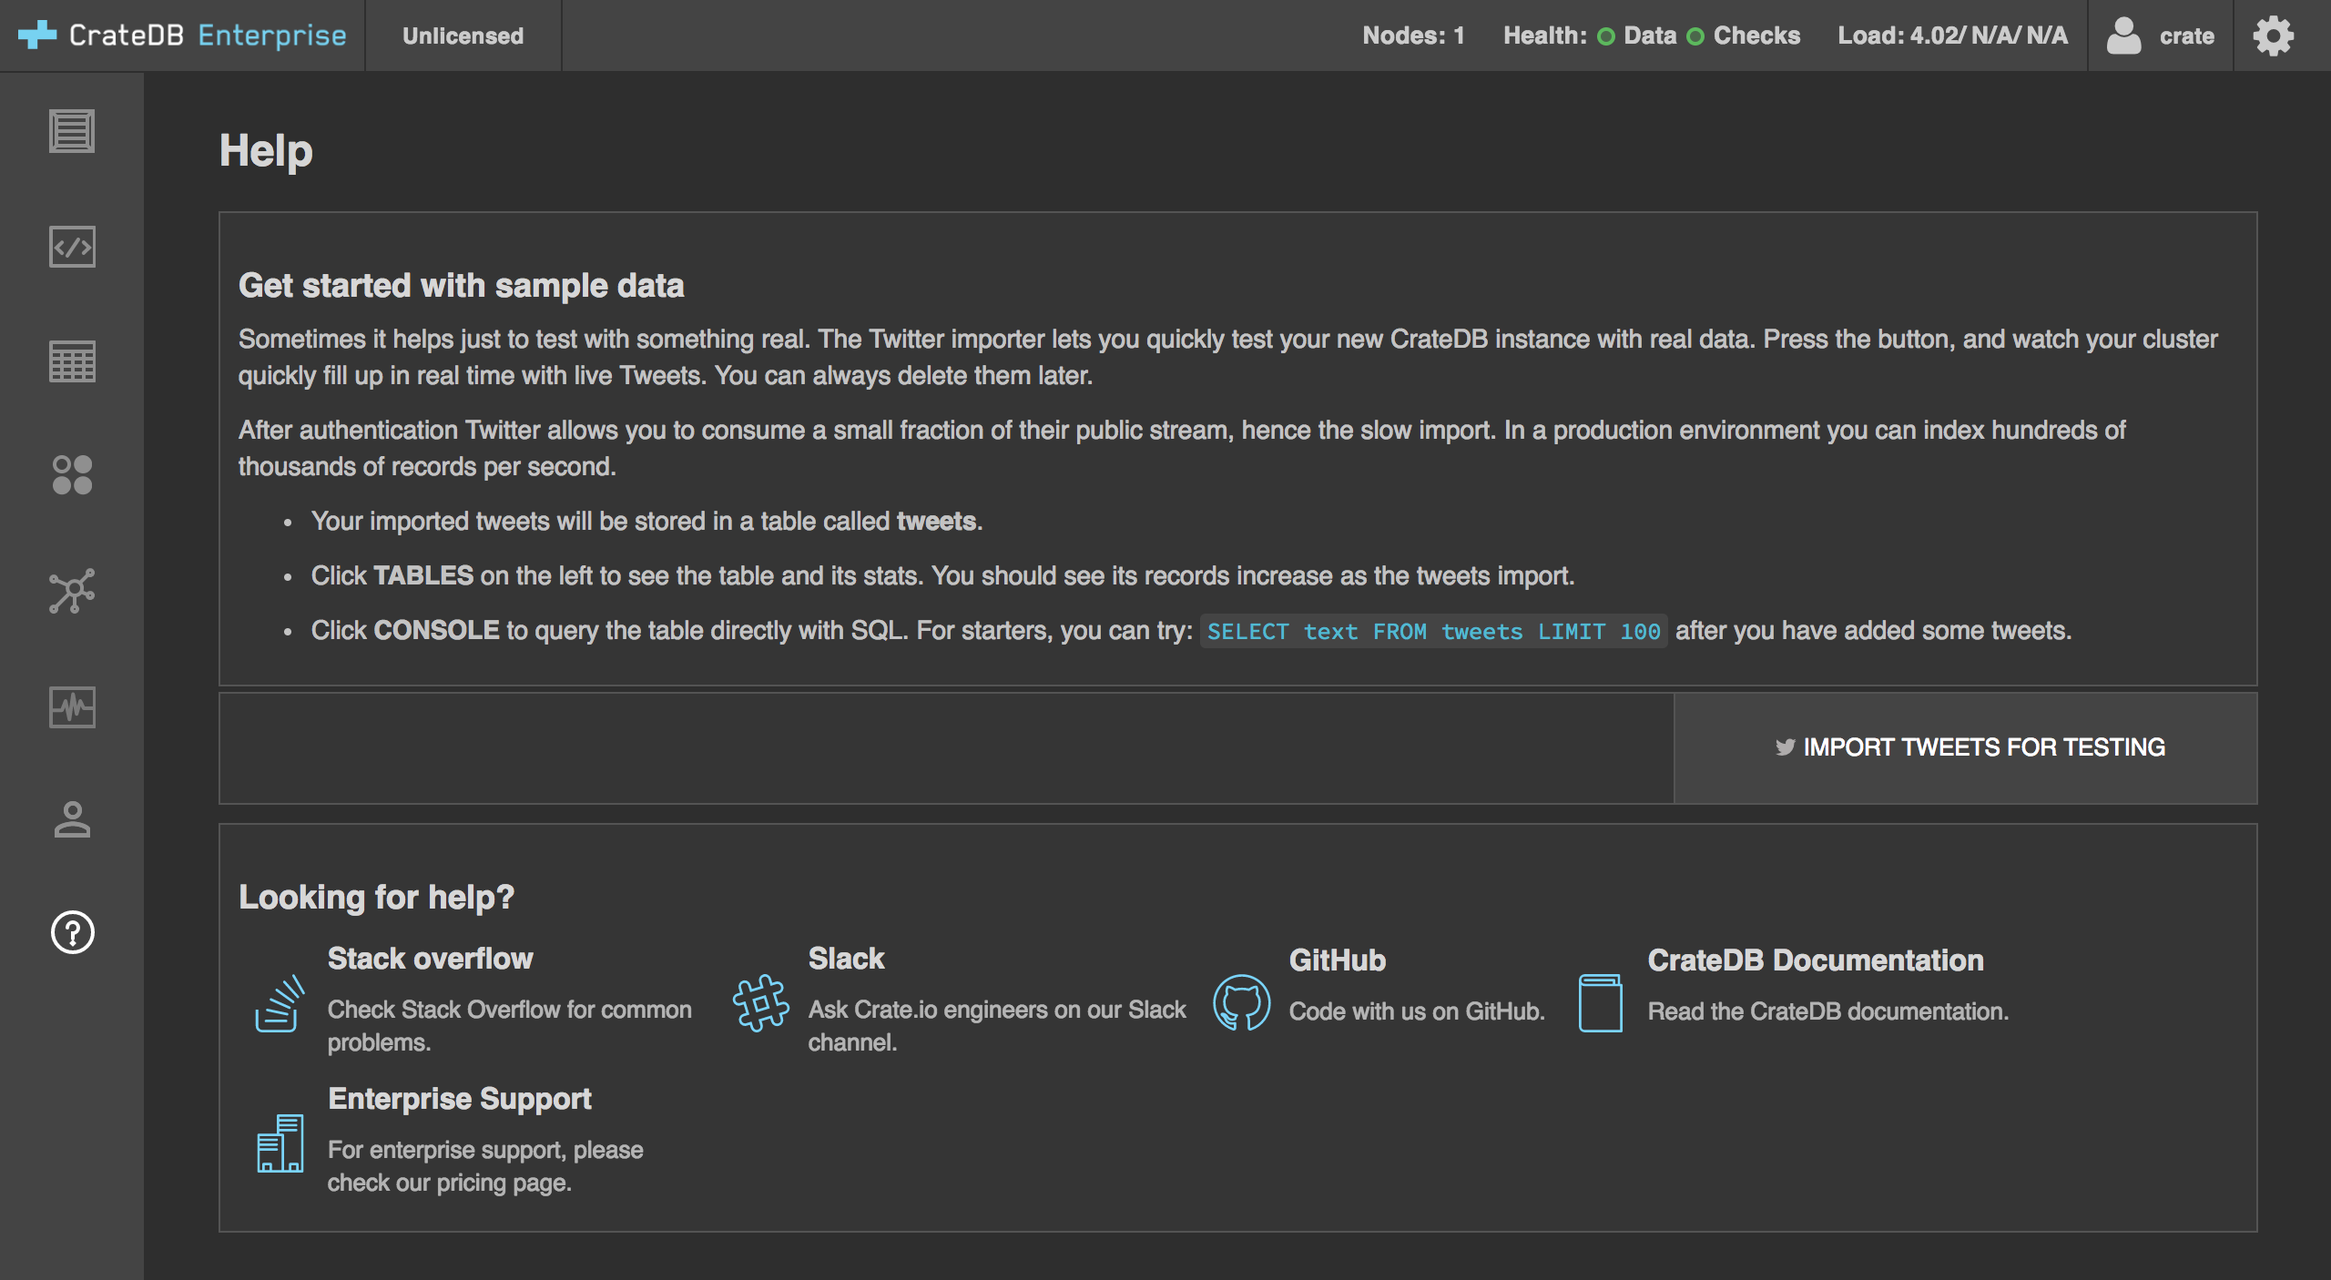
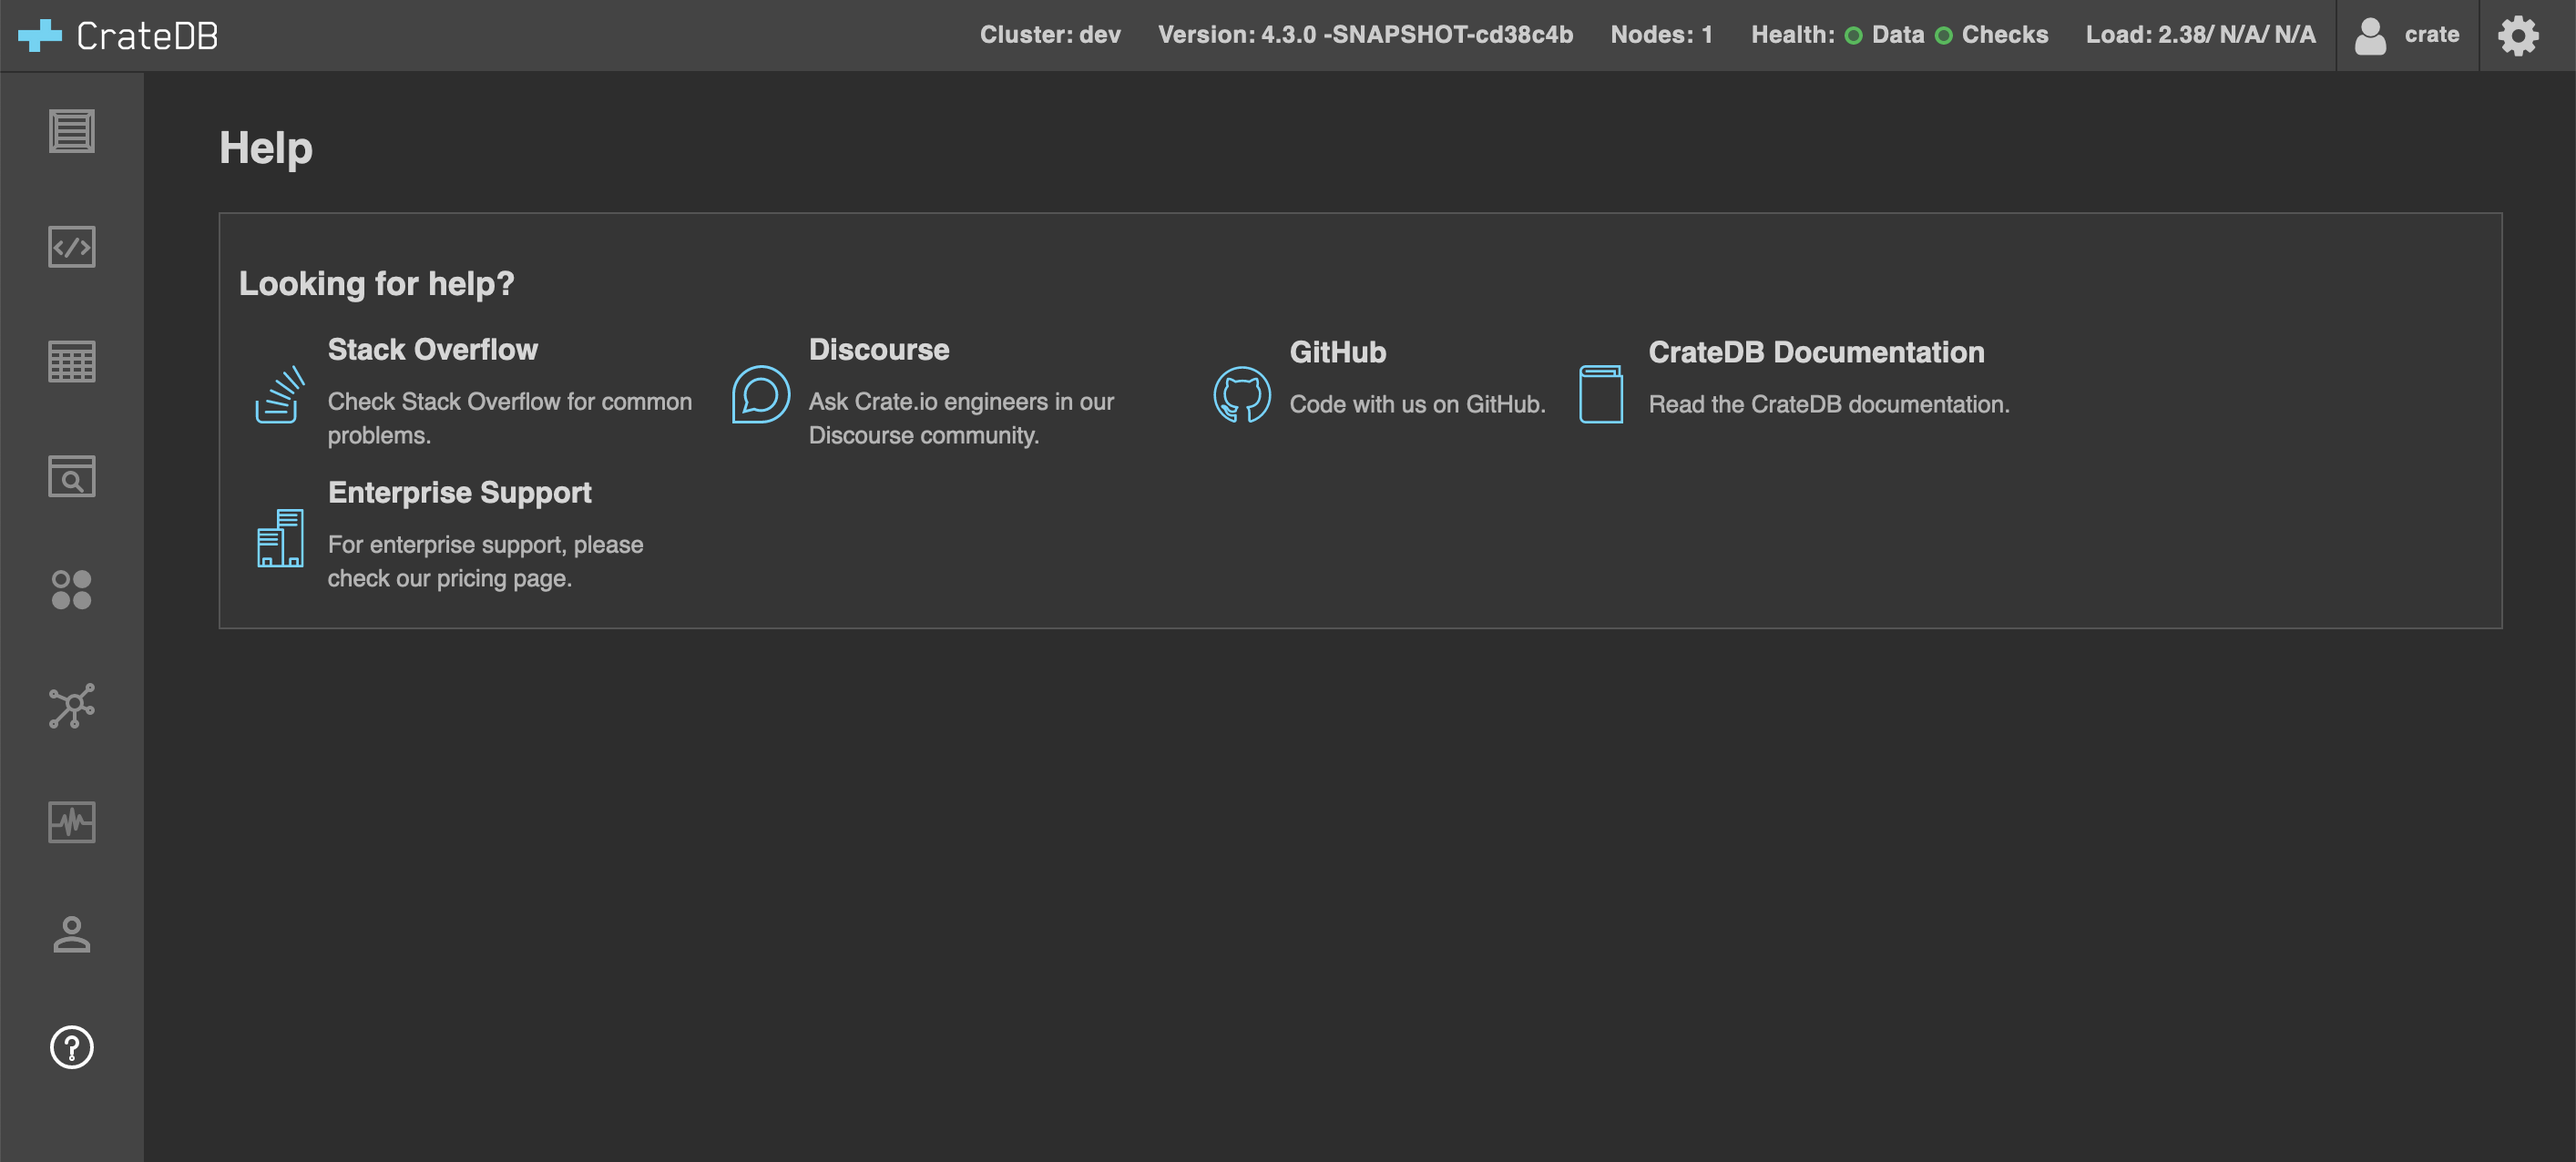
Remove tweet tutorial demo.
It is currently broken and also does not reflect the most common
use cases with CrateDB.
We may come up with a better demonstration in future.

diff --git a/app/plugins/tutorial/tutorial.js b/app/plugins/tutorial/tutorial.js
@@ -1,206 +1,18 @@
 'use strict';
 
-angular.module('tutorial', ['sql', 'translation'])
-  .controller('TutorialController', function($scope, $window, SQLQuery, $sce, $translate, $translatePartialLoader, $rootScope, Translation) {
-
-    var base_url = 'https://twitter.crate.io/api/v1';
-    var loc = $window.location;
-    var redirect = loc.protocol + '//' + loc.host + loc.pathname + loc.search;
-
-    $scope.count = 0;
-    $scope.importing = false;
-
-    $scope.error = {};
-
-    var Twitter = function() {
-
-      var createStmt = 'create table if not exists tweets ( ' +
-        '  id text primary key, ' +
-        '  created_at timestamp with time zone, ' +
-        '  text text INDEX using fulltext, ' +
-        '  source text INDEX using fulltext, ' +
-        '  retweeted boolean, ' +
-        '  account_user object(strict) as ( ' +
-        '    created_at timestamp with time zone, ' +
-        '    verified boolean, ' +
-        '    followers_count integer, ' +
-        '    id text, ' +
-        '    statuses_count integer, ' +
-        '    description text INDEX using fulltext, ' +
-        '    friends_count integer, ' +
-        '    location text INDEX using fulltext ' +
-        '  ) ' +
-        ') with (number_of_replicas = \'0-all\')';
-      var insertStmt = 'insert into tweets ' +
-        '(created_at, id, retweeted, source, text, account_user) ' +
-        'values ($1, $2, $3, $4, $5, $6)';
-
-      this.storeTweet = function(tweet) {
-        if (!tweet || !tweet.id) {
-          return;
-        }
-        SQLQuery.execute(insertStmt, [
-          tweet.created_at,
-          tweet.id,
-          tweet.retweeted,
-          tweet.source,
-          tweet.text,
-          tweet.user],
-          false,
-          false,
-          false,
-          false);
-      };
-
-      this.createTable = function() {
-        return SQLQuery.execute(createStmt, {}, false, false, true, false);
-      };
-
-      this.start = function() {
-        if (this.request) {
-          return; // already running!
-        }
-        this.count = 0;
-        var self = this,
-          currentResponseText='',
-          tweets;
-        var ctd = this.createTable();
-
-        var fetch = function() {
-          $scope.importing = true;
-
-          // This is a long polling request.
-          // We do not expect this to ever complete, except on timeout and just parse the
-          // continously updating response for new tweets to insert.
-          self.request = $.ajax(base_url + '/sample?origin=' + encodeURIComponent(redirect), {
-            type: 'GET',
-            xhrFields: {
-              withCredentials: true
-            },
-            crossDomain: true,
-            xhr: function() {
-              var xhr = new window.XMLHttpRequest();
-              xhr.addEventListener('progress', function(evt) {
-                tweets = evt.target.responseText.substring(currentResponseText.length);
-                tweets = tweets.split('\n');
-                tweets = $.map(tweets, function (tweet) {
-                  try {
-                    return JSON.parse(tweet);
-                  } catch (e) { return null; }
-                });
-                tweets = tweets.filter(function(tweet) {
-                  return tweet !== null;
-                });
-                $.each(tweets, function (idx, tweet) {
-                  self.storeTweet(tweet);
-                });
-                self.count += tweets.length;
-                $scope.count = self.count;
-                currentResponseText = evt.target.responseText;
-              });
-              return xhr;
-            }
-          })
-            .fail(function (err) {
-              // If this is an authorization failure, redirect to get
-              // permission
-              if (err.status === 401) {
-                window.location = base_url + '/auth?origin=' + encodeURIComponent(redirect);
-              }
-            });
-        };
-
-        ctd.then(fetch,
-          function(response){
-          $scope.error = response.error;
-        });
-      };
-
-      this.running = function() {
-        return (this.request && this.request.state() === 'pending');
-      };
-
-      this.stop = function() {
-        if (this.request) {
-          this.request.abort();
-        }
-        this.request = null;
-        $scope.importing = false;
-      };
-    };
-
-    var twitter = new Twitter();
-    // The authentication callback sets the start_twitter parameter after
-    // a successfull login so the user doesn't have to click the button again
-    if (localStorage.getItem('crate.start_twitter') === 'true') {
-      localStorage.removeItem('crate.start_twitter');
-      twitter.start();
-    }
-
-    $scope.startImport = function(){
-      twitter.start();
-    };
-
-    $scope.stopImport = function(){
-      twitter.stop();
-    };
+angular.module('tutorial', ['translation'])
+  .controller('TutorialController', function($translate, $translatePartialLoader) {
 
     $translatePartialLoader.addPart('./static/plugins/tutorial');
     $translate.refresh();
-
-
-    // Update text if Language is Changed
-    $rootScope.$on('$translateChangeSuccess', function() {
-      $translate(['TUTORIAL.INSTRUCTION_1', 'TUTORIAL.TWEETS']).then(function(translations) {
-        $scope.InstructionText1 = Translation.interpolate(translations['TUTORIAL.INSTRUCTION_1'], {
-          tweets: '<b>' + translations['TUTORIAL.TWEETS'] + '</b>'
-        });
-        if (typeof $scope.InstructionText1 === 'string'){
-          $scope.InstructionText1 = $sce.trustAsHtml($scope.InstructionText1);
-        }
-      });
-
-      $translate(['TUTORIAL.INSTRUCTION_2', 'TUTORIAL.TABLES']).then(function(translations) {
-        $scope.InstructionText2 = Translation.interpolate(translations['TUTORIAL.INSTRUCTION_2'],{
-          tables: '<b>' + translations['TUTORIAL.TABLES'] + '</b>'
-        });
-        if (typeof $scope.InstructionText2 === 'string'){
-          $scope.InstructionText2 = $sce.trustAsHtml($scope.InstructionText2);
-        }
-      });
-
-      $translate(['TUTORIAL.INSTRUCTION_3', 'TUTORIAL.CONSOLE', 'TUTORIAL.QUERY']).then(function(translations) {
-        $scope.InstructionText3 = Translation.interpolate(translations['TUTORIAL.INSTRUCTION_3'],{
-          console: '<b>' + translations['TUTORIAL.CONSOLE'] + '</b>',
-          query: '<code>SELECT text FROM tweets LIMIT 100</code>'
-        });
-        if (typeof $scope.InstructionText3 === 'string'){
-          $scope.InstructionText3 = $sce.trustAsHtml($scope.InstructionText3);
-        }
-      });
-    });
-
-    $scope.$on('$destroy', function() {
-      twitter.stop();
-    });
 
   })
   .run(function($window, NavigationService, $translatePartialLoader, $filter, $rootScope, $translate) {
-
     $translatePartialLoader.addPart('./static/plugins/tutorial');
-    $translate.refresh();
     var iconSrc = 'static/plugins/tutorial/static/icons/icon-getstarted.svg';
     var url = '/help';
     var position = 100;
-    var re = /[\?|&]start_twitter=true/;
-
     NavigationService.addNavBarElement(iconSrc, $filter('translate', 'NAVIGATION.HELP'), url, position, "tutorial");
-
-    if ($window.location.hash.match(re) !== null) {
-      var path = $window.location.pathname;
-      localStorage.setItem('crate.start_twitter', 'true');
-      $window.location.href = path + $window.location.search.replace(re, '') + '#!' + url;
-    }
 
     // Update Navbar Elements if Language Changes
     $rootScope.$on('$translateChangeSuccess', function() {

diff --git a/app/plugins/tutorial/tutorial.html b/app/plugins/tutorial/tutorial.html
@@ -5,34 +5,6 @@
 
   <div class="help__wrapper">
     <div class="tutorial__wrapper">
-      <div class="cr-panel-block--tutorial">
-        <h2> {{::'TUTORIAL.TITLE' | translate }}</h2>
-
-        <p>{{:: 'TUTORIAL.PARAGRAPH_1' |translate }}</p>
-        <p>{{:: 'TUTORIAL.PARAGRAPH_2' |translate }}</p>
-
-        <ul>
-          <li ng-bind-html="InstructionText1"></li>
-          <li ng-bind-html="InstructionText2"></li>
-          <li ng-bind-html="InstructionText3"></li>
-        </ul>
-      </div>
-
-      <div class="import-tweets__submit__panel">
-        <div class="import-tweets__button">
-          <button ng-hide="importing" ng-click="startImport()" type="submit" class="cr-import-tweets__button cr-button cr-button--primary" data-style="expand-left" data-spinner-size="30"><i class="fa fa-twitter"></i> {{:: 'TUTORIAL.IMPORT_TWEETS' | translate }}</button>
-          <button ng-show="importing" ng-click="stopImport()" type="submit" class="cr-import-tweets__button cr-button cr-button--primary" data-style="expand-left" data-spinner-size="30"><i class="fa fa-stop"></i> {{:: 'TUTORIAL.STOP_IMPORTING_TWEETS' | translate }}</button>
-        </div>
-        <div class="import-tweets__text">
-          <p ng-show="importing">{{:: 'TUTORIAL.IMPORTING_TWEETS' |translate }} <strong id="tweets">{{ count }}</strong> {{:: 'TUTORIAL.TWEETS_IMPORTED' |translate }}</p>
-        </div>
-      </div>
-
-      <div class="import-tweets__submit__panel import-tweets__error" ng-if="error.message">
-        <div>Error importing tweets!</div>
-        <div>{{error.message}}</div>
-      </div>
-
     </div>
 
     <div class="cr-panel-block--help">

diff --git a/docs/help.rst b/docs/help.rst
@@ -20,19 +20,4 @@ Features
 .. |nbsp| unicode:: 0xA0
    :trim:
 
-:Tweet |nbsp| import:
-
-  If you're just getting started with CrateDB, a good way to get a feel for the
-  system is to have some data to play around with. Select *IMPORT TWEETS FOR
-  TESTING* to authenticate with Twitter and import tweets from the public
-  timeline.
-
-  A table named ``tweets`` is created for you automatically.
-
-  A tweets count indicator will show you how many tweets have been imported.
-  When you are satisfied with the number of imported tweets, select the
-  *ENOUGH! STOP IMPORTING TWEETS* button.
-
-  .. TIP::
-
-     This feature does not tweet or follow anyone on your behalf.
+This page includes links to various help resources.

diff --git a/CHANGES.rst b/CHANGES.rst
@@ -8,7 +8,7 @@ Unreleased
 Changes
 -------
 
-- Updated the Tweet tutorial table to no longer use deprecated column types.
+- Removed the Tweet tutorial.
 
 2020-07-01 1.16.0
 =================
@@ -60,7 +60,7 @@ Fixes
 Fixes
 -----
 
-- Fixed an issue that caused the pagination ``Previous`` button to not display the 
+- Fixed an issue that caused the pagination ``Previous`` button to not display the
   whole list of results for that page in the Console view.
 
 2019/09/26 1.15.3
